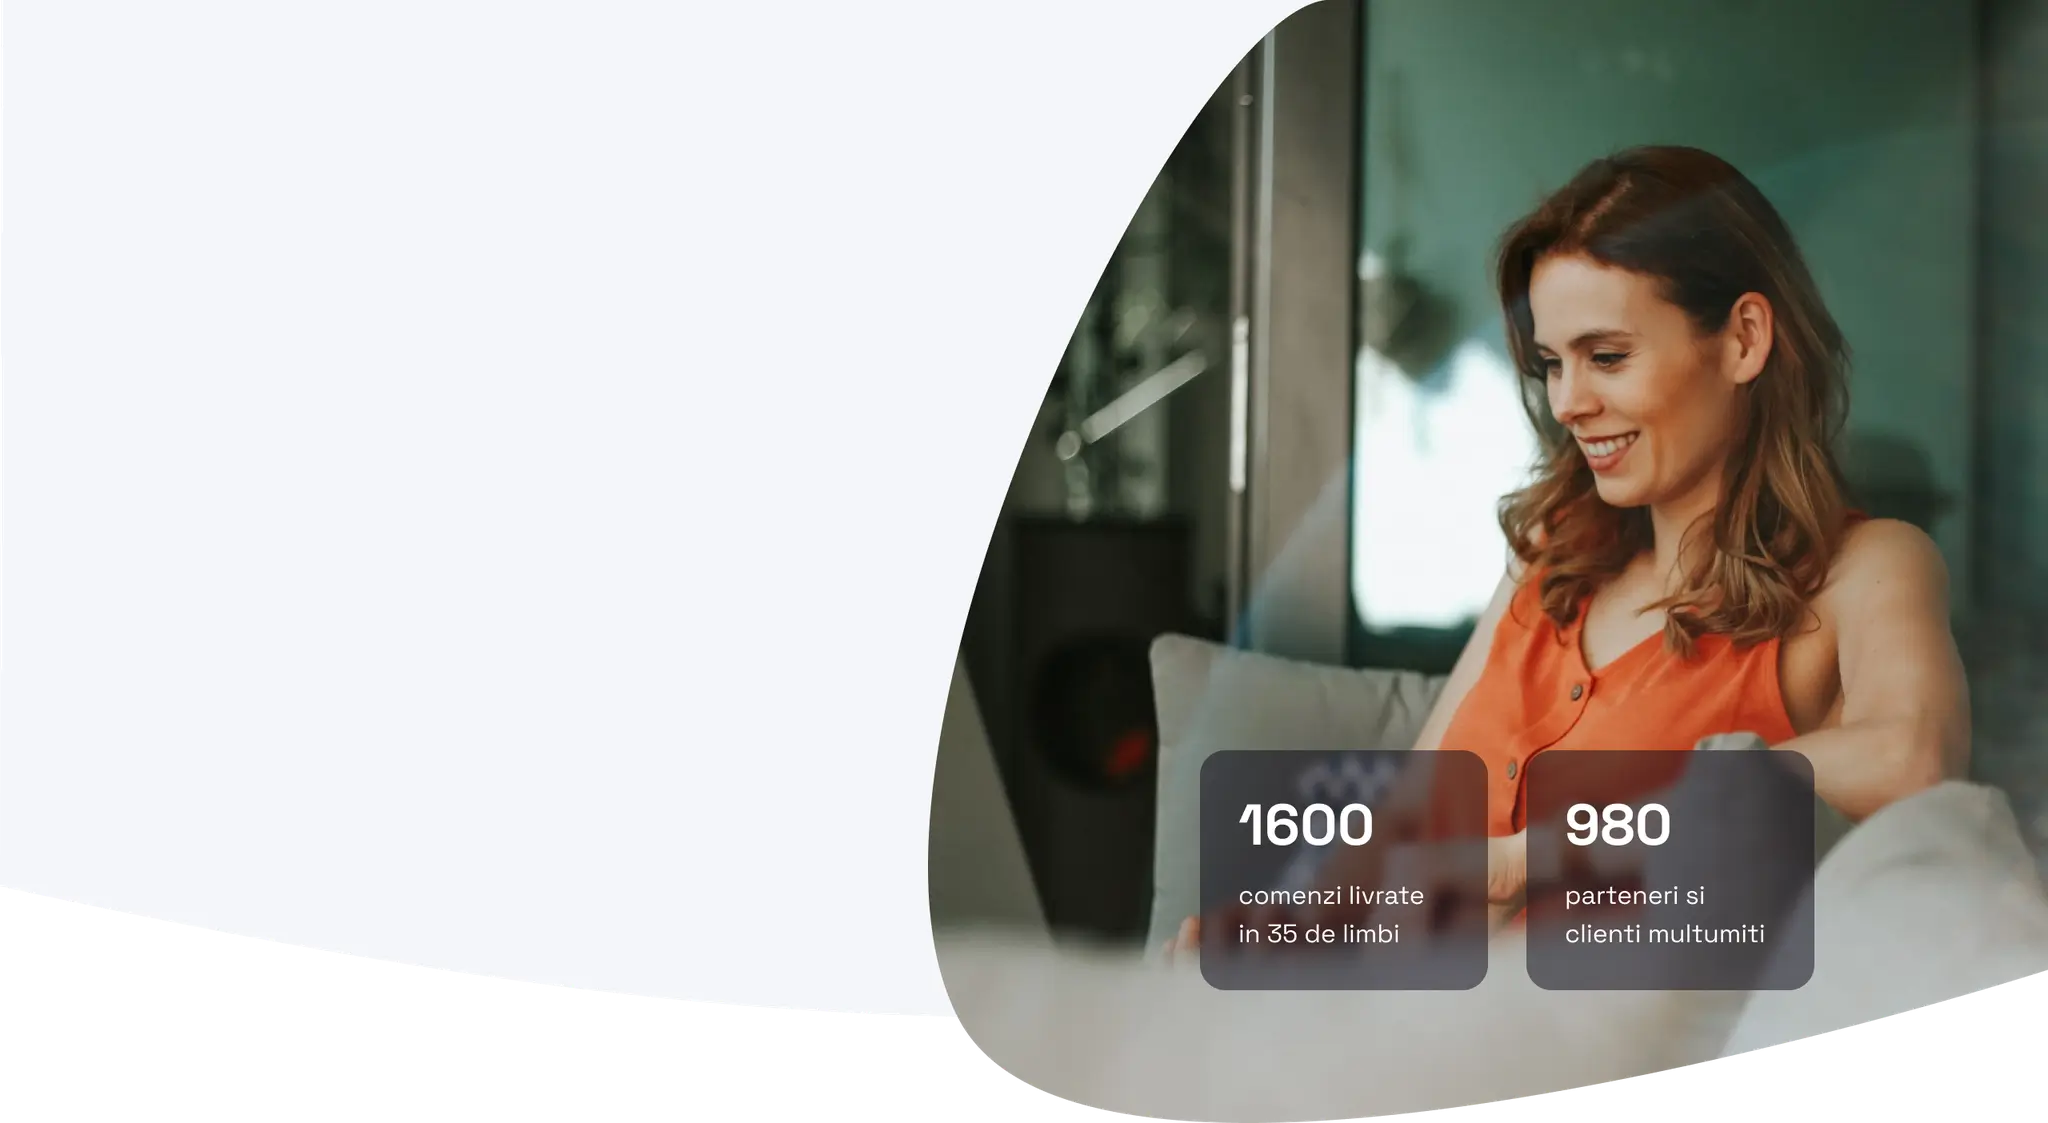
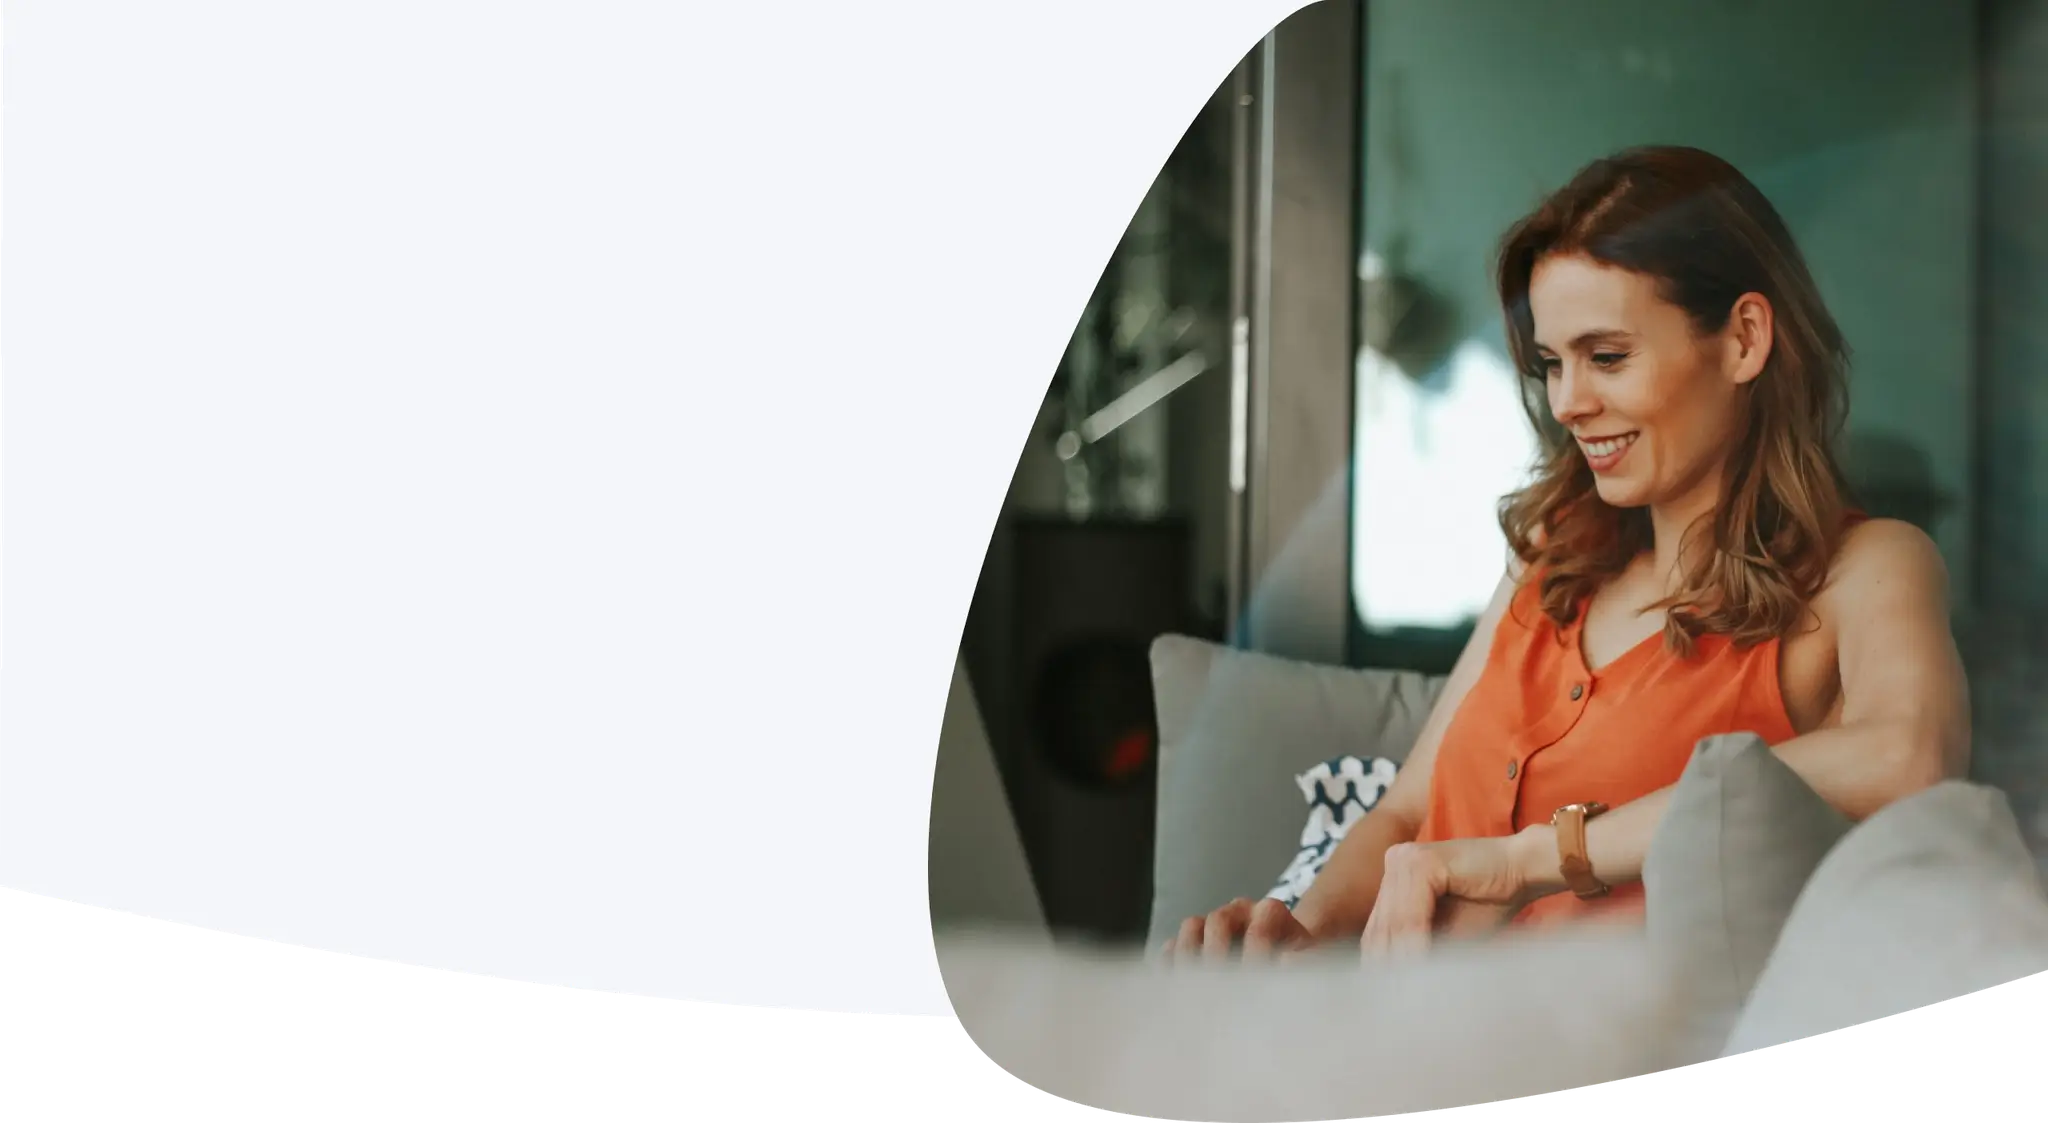
hero and footer update

Changed region(s): [[0.5625, 0.6545, 0.9062, 0.9038]]

diff --git a/src/components/layout/Footer.tsx b/src/components/layout/Footer.tsx
@@ -6,6 +6,7 @@ import { FaFacebook, FaInstagram, FaTwitter, FaYoutube } from "react-icons/fa";
 const Footer = () => {
   const message = useMessages();
   const t = useTranslations("footer");
+  const a = useTranslations("AREAS");
   const SDATA = message.footerServices as unknown as any[];
   return (
     <footer className="bg-light-gray ">
@@ -43,16 +44,26 @@ const Footer = () => {
             </ul>
           </div>
           <div>
-            <h3 className=" text-lg font-bold">domenii</h3>
+            <h3 className=" text-lg font-bold">{a("title")}</h3>
             <ul className=" pt-4 space-y-4">
-              <li className=" text-base font-normal text-[#606060]">juridic</li>
-              <li className=" text-base font-normal text-[#606060]">medical</li>
-              <li className=" text-base font-normal text-[#606060]">tehnic</li>
               <li className=" text-base font-normal text-[#606060]">
-                financiar
+                {a("1")}
               </li>
-              <li className=" text-base font-normal text-[#606060]">media</li>
-              <li className=" text-base font-normal text-[#606060]">web</li>
+              <li className=" text-base font-normal text-[#606060]">
+                {a("2")}
+              </li>
+              <li className=" text-base font-normal text-[#606060]">
+                {a("3")}
+              </li>
+              <li className=" text-base font-normal text-[#606060]">
+                {a("4")}
+              </li>
+              <li className=" text-base font-normal text-[#606060]">
+                {a("5")}
+              </li>
+              <li className=" text-base font-normal text-[#606060]">
+                {a("6")}
+              </li>
             </ul>
           </div>
           <div className="  h-full">

diff --git a/src/components/pages/home/Hero.tsx b/src/components/pages/home/Hero.tsx
@@ -7,12 +7,12 @@ const Hero = ({ items }: { items: any[] }) => {
   return (
     <div
       style={{
-        backgroundImage: `url(${t("bg_image")})`,
+        backgroundImage: `url("/images/hero.webp")`,
       }}
       className="bg-[length:100%_94%]   xl:bg-[length:100%_87%]  2xl:bg-[length:100%_99%]  relative z-10 overflow-hidden   max-[1023px]:!bg-none  lg:min-h-screen 2xl:min-h-[90vh]  w-full bg-no-repeat "
     >
-      <div className="  flex flex-col md:flex-row justify-between gap-5 container w-full">
-        <div className=" pt-[1.5rem] sm:pt-[7.5rem]  xl:absolute  xl:top-[17%] xl:-translate-y-[17%]">
+      <div className=" h-full  relative  flex flex-col md:flex-row justify-between gap-5 container w-full">
+        <div className=" pt-[1.5rem] sm:pt-[7.5rem] h-full  ">
           <div className=" max-w-[450px] xl:max-w-[532px]">
             <h2 className=" text-[2.5rem] xl:text-[3rem] font-bold leading-[1.2]">
               your message, <br /> our words
@@ -26,14 +26,14 @@ const Hero = ({ items }: { items: any[] }) => {
           </div>
         </div>
         <div>
-          <div className=" pt-5 sm:pt-[10rem] lg:hidden grid grid-cols-2 gap-4">
+          <div className=" pt-5 lg:absolute lg:right-[12%] 2xl:top-[85%] lg:top-[40%] xl:top-[60%] sm:pt-[10rem] grid grid-cols-2 lg:flex  gap-4">
             {items.map((item, index) => (
               <div
                 key={index}
                 style={{
                   backgroundColor: "rgba(12, 8, 25, 0.50)",
                 }}
-                className=" py-6 px-6 rounded-[16px]"
+                className="  lg:backdrop-blur-[15px] lg:max-w-[180px] py-6 px-6 rounded-[16px]"
               >
                 <h2 className=" text-4xl text-white font-bold leading-normal">
                   {item.value}

diff --git a/src/components/pages/home/Team.tsx b/src/components/pages/home/Team.tsx
@@ -26,7 +26,7 @@ const Team = () => {
             <p className=" text-lg text-dark-purple">{t("description")}</p>
           </div>
         </div>
-        <div className="grid w-full grid-cols-2 gap-6">
+        <div className="grid relative overflow-hidden w-full grid-cols-2 gap-6">
           {teamdata.map((item, index) => (
             <div
               key={item.id}
@@ -34,7 +34,7 @@ const Team = () => {
                 backgroundImage: `url(${item.profileImage})`,
                 padding: "120px 24px 24px 24px",
               }}
-              className="flex bg-cover h-full overflow-hidden after:inset-0 relative after:absolute after:w-full after:z-10 after:h-full after:bg-gteam min-h-[232px] rounded-[10px] justify-end  items-start"
+              className="flex bg-cover h-[232px] overflow-hidden after:inset-0 relative after:absolute after:w-full after:z-10 after:h-full after:bg-gteam min-h-[232px] rounded-[10px] justify-end  items-start"
             >
               <div className=" relative z-40">
                 <h3 className=" text-4xl text-white font-bold">{item.name}</h3>

diff --git a/tailwind.config.ts b/tailwind.config.ts
@@ -64,6 +64,7 @@ const config = {
         purple: "hsla(var(--purple))",
         light_purple: "hsla(var(--light-purple))",
         "light-gray": "#F4F6F9",
+        "dark-950": "rgba(12, 8, 25, 0.50)",
       },
       borderRadius: {
         lg: "var(--radius)",
